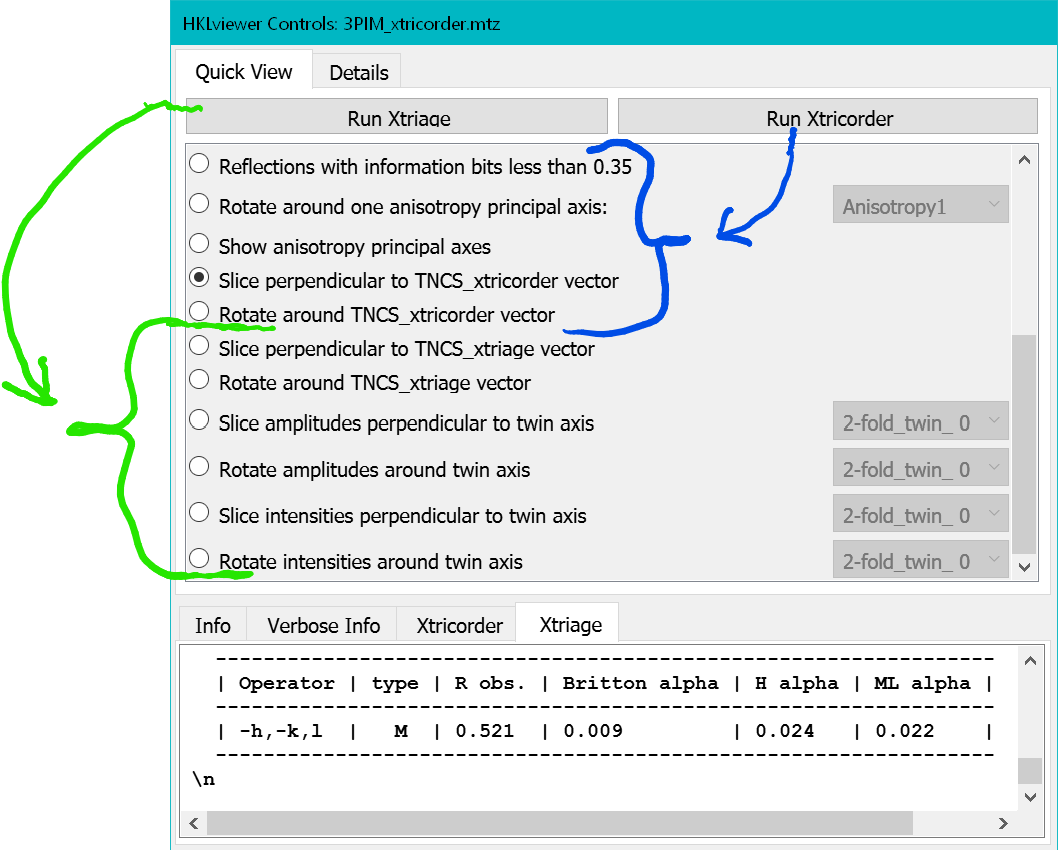
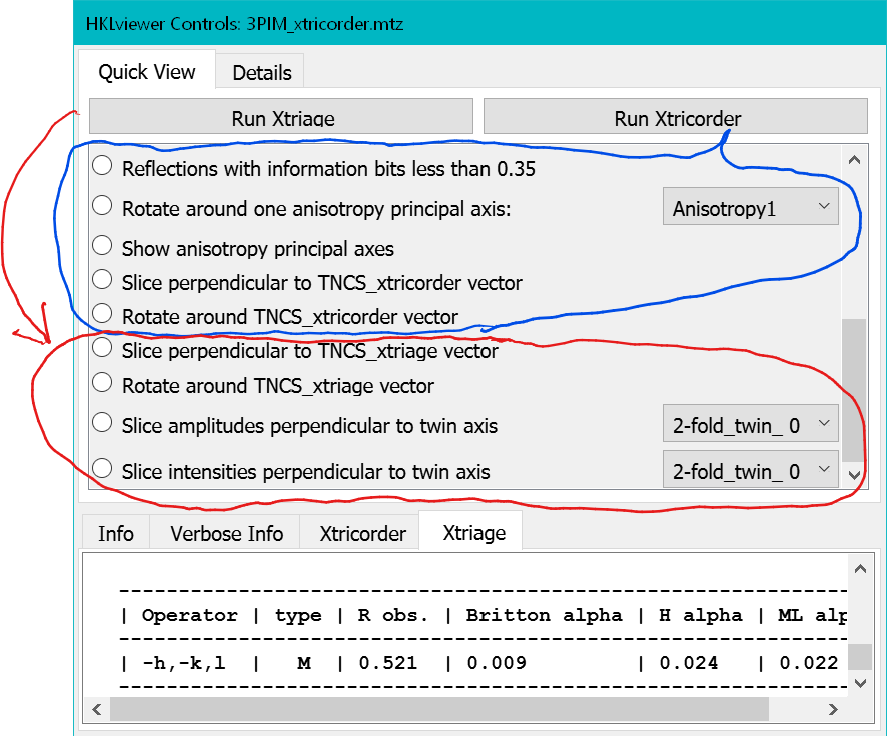
more changes

diff --git a/cctbx/templates/cctbx/documentation/doc_hklviewer.html b/cctbx/templates/cctbx/documentation/doc_hklviewer.html
@@ -88,7 +88,7 @@
   <p />
 
   <!----------------------------------------------------------------------------->
-  <h4 class="mt-4">How to display amplitudes or intensities</h4>
+  <h5 class="mt-4">How to display amplitudes or intensities</h5>
   <p>
     The first dataset of type "Intensities" in the loaded file can be displayed by pressing the "Show Intensities" button.
     HKLviewer first looks for a dataset labelled "I,SIGI" and associates that
@@ -97,7 +97,7 @@
     where it is looking for the dataset "FOBS,SIGFOBS" or a dataset of type "Amplitude".
   </p>
 
-  <h4 class="mt-4">How to display slices of intensities or amplitudes</h4>
+  <h5 class="mt-4">How to display slices of intensities or amplitudes</h5>
   <p>
     Slices of reflections at constant H, K or L can be displayed by pressing one of the "Show plane of intensities"
     or "Show plane of amplitudes" buttons and then selecting H, K or L-axis from the drop-down list.
@@ -119,7 +119,7 @@
   </p>
   <!----------------------------------------------------------------------------->
 
-  <h4 class="mt-4">I/SigI>=2, F/SigF, E-values</h4>
+  <h5 class="mt-4">I/SigI>=2, F/SigF, E-values</h5>
   <p>
     For a dataset containing intensity data or amplitude data new datasets can be calculated on the fly containing the
     data values divided by their asssociated sigma values, i.e. I/SigI>=2 or F/SigF. These are common indicators of the
@@ -136,13 +136,14 @@
     to make all reflections regardless of resolution shell appear on average to have the same strength.
     Anisotropic or tNCS correction is not applied and currently the sigmas are not converted.
 <p />
-  <h4 class="mt-4">Merged Intensities and Multiplicities</h4>
+  <h5 class="mt-4">Merged Intensities and Multiplicities</h5>
   Given an unmerged dataset of intensities, the "Merged Intensities" button will merge the symmetry-related
   reflections (keeping anomalous flag), i.e. put reflections into just one asymmetric unit wedge if that is not 
   already the case. The "Multiplicities" button will create a dataset of integers counting
   how many symmetry related reflections was used to produce a reflection in the merged array. These two buttons
   are using the  <a href="https://cctbx.github.io/cctbx/cctbx.miller.html#cctbx.miller.array.merge_equivalents">
-  merge_equivalents function<a/> in CCTBX.
+  merge_equivalents function<a/> in CCTBX. An example using these buttons is given in the 
+  <a href="../tuto_hklviewer/#inspecting-an-unmerged-dataset">tutorials section</a>.
 
     </p>
     <!----------------------------------------------------------------------------->
@@ -164,7 +165,7 @@
 
     <!----------------------------------------------------------------------------->
 
-    <h4 class="mt-4">Creating a new button</h4>
+    <h5 class="mt-4">Creating a new button</h5>
 
     To create a new button amounts to display a dataset in a particular manner, extract the PHIL parameters defining
     how reflections are displayed and then insert the PHIL parameters into the users's .hkl_viewer_buttons.py file.
@@ -173,7 +174,7 @@
 
     <!----------------------------------------------------------------------------->
     <a name="get_PHIL_params"></a>
-    <h4 class="mt-4">Get PHIL parameters for a button</h4>
+    <h5 class="mt-4">Get PHIL parameters for a button</h5>
     <p>
       The PHIL parameters defining the current view, say expansion to Friedel pairs of amplitude data,
       is obtained from the
@@ -218,13 +219,34 @@
     </p>
 
 
+    <h3 class="mt-4">How to display other reflection datasets</h3>
+
+    <p>
+      Data sets other than what are available from the Quick View tab can be
+      displayed from the details tab by double-clicking the row with
+      the corresponding label in the upper left table.
+    </p>
+
+    <!----------------------------------------------------------------------------->
+
+    <h5 class="mt-4">How to display sigmas</h5>
+
+    <p>
+      If a dataset contains sigmas associated to amplitudes or intensities, say it is labelled as
+      "F,SIGF", then these can be displayed from the details tab with a right click on the
+      respective row in the upper-left table. A
+      menu will appear where the second item will be "Display sigmas of F,SIGF". Selecting that item will display
+      the data in the viewer with the colour mapping and the size of the reflection spheres now being mapped
+      according to sigma values in the dataset.
+    </p>
+
 
     <!----------------------------------------------------------------------------->
 
     <h3 class="mt-4">Integration with other programs</h3>
 
     <a name="Xtriage"></a>
-    <h4 class="mt-4">Xtriage integration</h4>
+    <h5 class="mt-4">Xtriage integration</h5>
     Xtriage is also a part of the CCTBX and Phenix. An amplitude or intensity dataset that is displayed in the
     HKLviewer can be processed with Xtriage by clicking on the "Xtriage" button on top on the "Quick View" tab
     of the HKLviewer controls. Once it has finished a log file from the Xtriage run will be present in the bottom
@@ -235,19 +257,19 @@
     Details tab. The twin operator which Xtriage computes to have the lowest R-obs value is usually the most interesting.
     It is found in the list of twin operators in the Xtriage tab and matches one of the rotation operators on the
     Vectors tab found on the Details tab.
-    A tutorial on how to inspect a twin law is given in the <a href="../tuto_hklviewer/#inspecting_a_twin_law">tutorial section</a>.
+    A tutorial on how to inspect a twin law is given in the <a href="../tuto_hklviewer/#inspecting-a-twin-law">tutorial section</a>.
     <br />
     Xtriage will also detect TNCS modulation with a patterson peak height larger than 
     0.1 of the origin peak height. If present, buttons will be available allowing inspection of the modulation
     from amplitudes or intensities converted into E-values. If the modulation is weak it may not be visible to the naked eye.
-    Below is a snapshot of the buttons available (green arrow) if there is twinning and TNCS in the dataset analysed by Xtriage.
+    Below is a snapshot of the buttons available (red bubble) if there is twinning and TNCS in the dataset analysed by Xtriage.
     <br />
     <br />
 
     <img style="max-width: 100%;" src="{% static 'cctbx/img/hklviewer/XtricorderXtriagebuttons.png' %}">
 
     <a name="Xtricorder"></a>
-    <h4 class="mt-4">Xtricorder integration</h4>
+    <h5 class="mt-4">Xtricorder integration</h5>
     Xtricorder is part  <a href="https://doi.org/10.1107/S2059798320014746">Phasertng</a> distributed within the
     Phenix and the CCP4 suite. Pressing the Xtricorder button it will analyse an mtz file in several ways
     and produces an output file with several additional columns. The output log file will subsequently be loaded in
@@ -262,7 +284,7 @@
     from displaying the anisotropy correction terms and the 
     principal axes of the corresponding tensor. If it looks ellipsoidal then the dataset is very anisotropic.
     <br />    
-    Above is a snapshot of the buttons available (blue arrow) if there is TNCS in the dataset analysed by Xtrcorder.
+    Above is a snapshot of the buttons available (blue bubble) if there is TNCS in the dataset analysed by Xtricorder.
     These are buttons are for visualising reflections with information content less than 0.35 bits, for
     for visualising anisotropy and for visualising TNCS correction terms. Reflections with information less
     than 0.35 bits roughly corresponds to I/SigI&lt;2.
@@ -270,7 +292,7 @@
     <a href="../tuto_hklviewer/#inspecting-tncs-modulation-in-a-dataset">tutorial section</a>.
 
     <a name="XDSGUI"></a>
-    <h4 class="mt-4">Integration in XDSGUI</h4>
+    <h5 class="mt-4">Integration in XDSGUI</h5>
     The HKLviewer can be integrated with the
     <a href="https://strucbio.biologie.uni-konstanz.de/xdswiki/index.php/Main_Page">XDSGUI</a> to make it easy to visualise
     and inspect newly integrated datasets. This is a lightweight implementation that relies on the presence of a Phenix
@@ -284,27 +306,6 @@
     <a href="#merged-intensities-and-multiplicities">described above</a>.
 
 
-    <h3 class="mt-4">How to display other reflection datasets</h3>
-
-    <p>
-      Data sets other than what are available from the Quick View tab can be
-      displayed from the details tab by double-clicking the row with
-      the corresponding label in the upper left table.
-    </p>
-
-    <!----------------------------------------------------------------------------->
-
-    <h4 class="mt-4">How to display sigmas</h4>
-
-    <p>
-      If a dataset contains sigmas associated to amplitudes or intensities, say it is labelled as
-      "F,SIGF", then these can be displayed from the details tab with a right click on the
-      respective row in the upper-left table. A
-      menu will appear where the second item will be "Display sigmas of F,SIGF". Selecting that item will display
-      the data in the viewer with the colour mapping and the size of the reflection spheres now being mapped
-      according to sigma values in the dataset.
-    </p>
-
     <!----------------------------------------------------------------------------->
 
     <h3 class="mt-4">Customising appearance of a particular type of dataset</h3>
@@ -312,7 +313,7 @@
     the displayed reflections. These can be customised by the user and the settings will be persisted
     for next time the HKLviewer is started.
 
-    <h4 class="mt-4">How to change colour mapping</h4>
+    <h5 class="mt-4">How to change colour mapping</h5>
 
     <p>
       The reflections are coloured according to
@@ -349,7 +350,7 @@
 
     <!----------------------------------------------------------------------------->
 
-    <h4 class="mt-5">How to change size of displayed reflections</h4>
+    <h5 class="mt-5">How to change size of displayed reflections</h5>
 
     <p>
       The size of each reflection is a function of its associated data value. Similar to colour mapping
@@ -364,7 +365,7 @@
     where \(x_{min} \) and \(x_{max}\) are the minimum and maximum data values found in the data set. The power
     scale factor can either be selected by the user or be determined atuomatically.</p>
 
-    <img style="max-width: 50%;" src="{% static 'cctbx/img/hklviewer/doc_hklviewer_006.png' %}">
+    <img style="max-width: 90%;" src="{% static 'cctbx/img/hklviewer/doc_hklviewer_006.png' %}">
 
     <p class="mt-3">
       For amplitudes or intensities where often there are orders of magnitude difference between
@@ -379,7 +380,7 @@
     <!----------------------------------------------------------------------------->
 
 
-    <h4 class="mt-5">Displaying map coefficients</h4>
+    <h5 class="mt-5">Displaying map coefficients or phases</h5>
 
     <p>
       For data with map coeffficients or phases only the phase value (modulo 360) is used for the colour mapping.
@@ -433,7 +434,7 @@
     drop down button. This will only slice reflections of datasets with amplitudes or intesities if present
     in the file.
 
-    <h4 class="mt-5">How to slice reflections with arbitrarily oriented clip planes</h4>
+    <h5 class="mt-5">How to slice reflections with arbitrarily oriented clip planes</h5>
 
     If a slice of reflections for a dataset other than amplitudes or intensities
     <a href="#how-to-display-slices-of-intensities-or-amplitudes">perpendicular to H,K or L axes</a>
@@ -483,7 +484,7 @@
     <p>
 
       <!----------------------------------------------------------------------------->
-      <h4 class="mt-5">Bin dataset according to resolution</h4>
+      <h5 class="mt-5">Bin dataset according to resolution</h5>
 
       In the figure below 6 bins of resolution have been created for the FP,SIGFP dataset using the default bin thresholds.
     </p>
@@ -517,7 +518,7 @@
 
     <!----------------------------------------------------------------------------->
 
-    <h4 class="mt-5">Bin dataset according to values in another dataset</h4>
+    <h5 class="mt-5">Bin dataset according to values in another dataset</h5>
 
     <p class="mt-3">
       Data can also be binned against other data values by selecting the desired data value for
@@ -572,7 +573,7 @@
 
     <!----------------------------------------------------------------------------->
 
-    <h4 class="mt-5">How to add user defined vectors</h4>
+    <h5 class="mt-5">How to add user defined vectors</h5>
 
     <p>
       In addition to rotation axes given by the space group it is possible to explicitly enter a rotation operator and
@@ -671,7 +672,7 @@
 
     <!----------------------------------------------------------------------------->
 
-    <h4 class="mt-5">Variables</h4>
+    <h5 class="mt-5">Variables</h5>
 
     <p>
       The following variables are available for a python expression submitted in
@@ -734,7 +735,7 @@
 
     <!----------------------------------------------------------------------------->
 
-    <h4 class="mt-5">Examples of creating a new dataset</h4>
+    <h5 class="mt-5">Examples of creating a new dataset</h5>
 
     <p>
       When creating a new dataset copies, the objective is to define <code>newarray</code> as a

diff --git a/cctbx/templates/cctbx/tutorials/tuto_hklviewer.html b/cctbx/templates/cctbx/tutorials/tuto_hklviewer.html
@@ -131,6 +131,18 @@ the python list in the file,
 
   <!----------------------------------------------------------------------------->
 
+  <h3 class="mt-3">Inspecting an unmerged dataset</h3>
+  If you have unmerged intensity data in a loaded file this can be merged so that all reflections are cast into the same
+  asymmetric unit wedge. An example of unmerged reflection data is given in this file produced by integrating
+  images from asdfasdf
+  with XDS. Clicking on the "Show Intensities" button on the Quick View tab loads all reflections into the viewer. We note that
+  the form more lamost a full sweep in reciprocal space. Clicking the "Merged Intensities" button then casts the reflections
+  into an asymmetric unit wedge. Clicking the Multiplicities button then calculates how many of unmerged reflections 
+  have been used for deriving the value of each of the merged reflections. With the multiplicities data it is then 
+  possible to sort reflections according to how many unmerged reflections they have been averaged over.
+
+
+
   <h3 class="mt-3">Inspecting TNCS modulation in a dataset</h3>
 
   <p>
